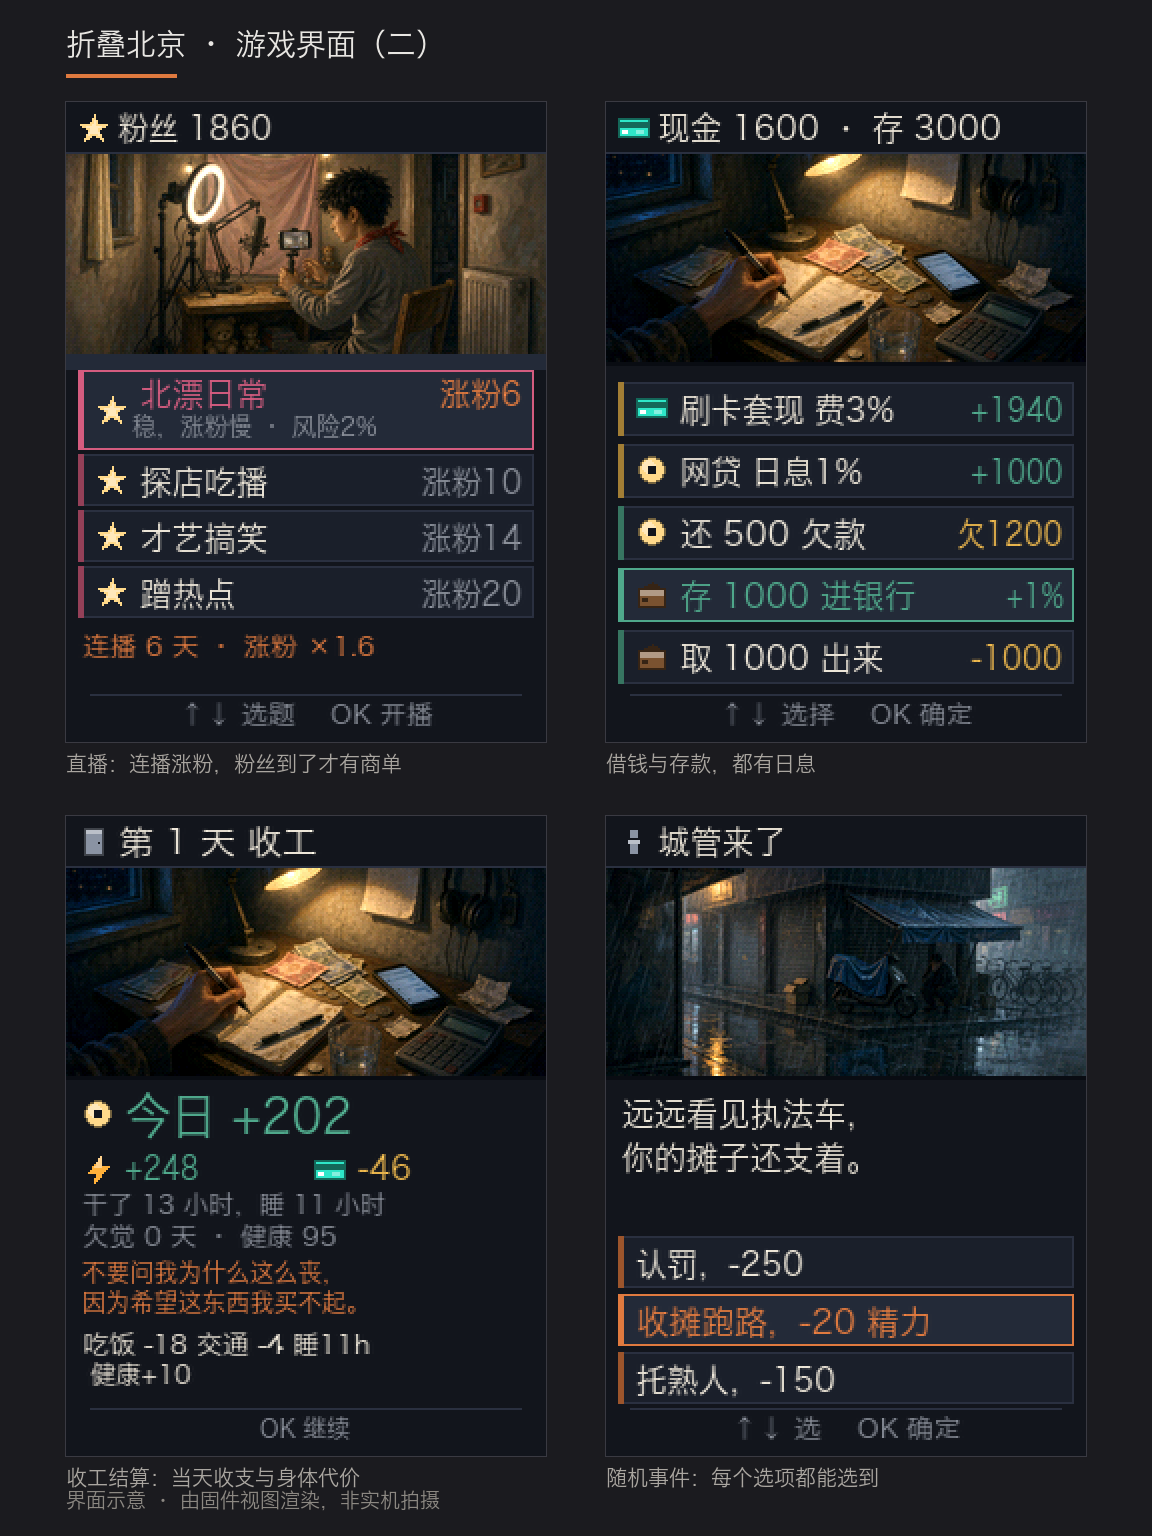
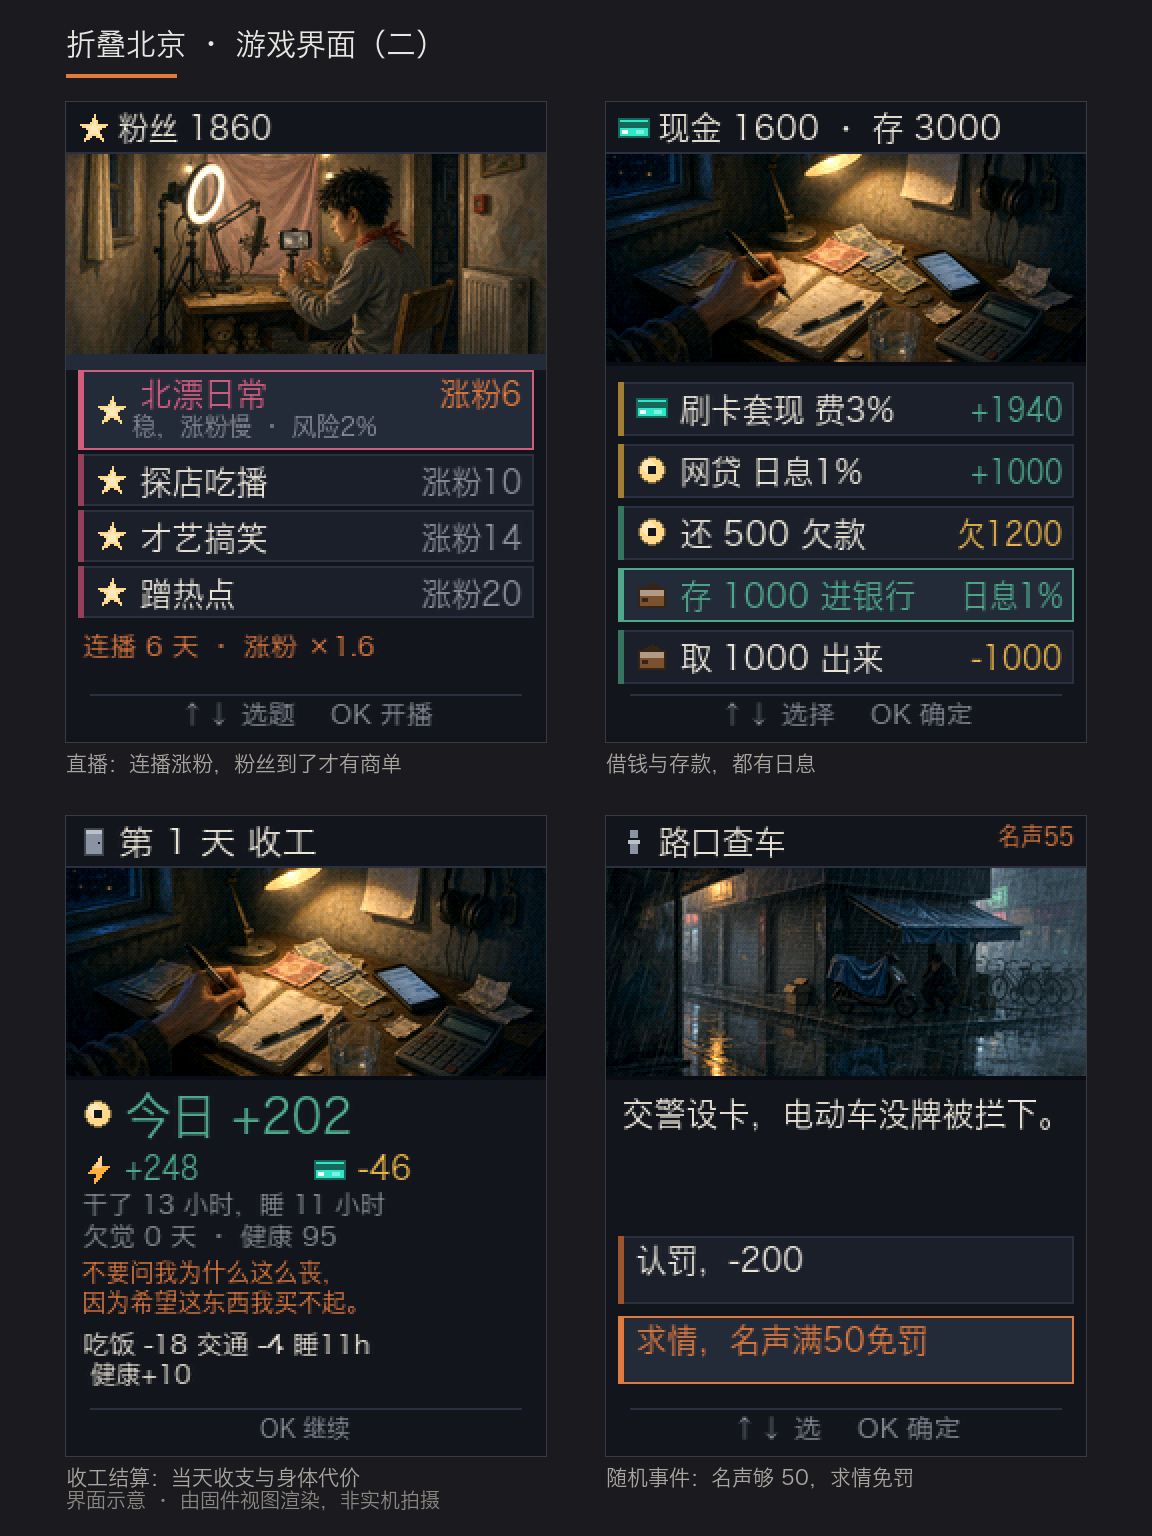
docs(发布): 2334 修订 5977 的文案与界面图
- 更新日志换成本次排查修复（客流倍率说清、名声真实判定与可见、隐藏代价补文案、孤行句号与日息对称）
- 简介与使用方法沿用（本次改动不改上手步骤）
- UI 拼图从当前固件视图重出：收入口行展示「客流×130%」、事件页展示「名声55 求情免罚」、财务页展示「日息1%」

diff --git a/tools/xm/make_ui_sheet.py b/tools/xm/make_ui_sheet.py
@@ -37,7 +37,7 @@ SHEETS = [
             ("02_home", "主面板：一天 24 小时的账"),
             ("03c_ride_due", "选行当：网约车按天租，界面直接标还剩几天"),
             ("07_gig", "日结零工：路边等活，当天结钱"),
-            ("05_market_ready", "摆摊选点：不同地方不同行情"),
+            ("04_market", "摆摊选点：客流倍率、进价卖价一目了然"),
         ],
     },
     {
@@ -47,7 +47,7 @@ SHEETS = [
             ("16_live", "直播：连播涨粉，粉丝到了才有商单"),
             ("15_finance", "借钱与存款，都有日息"),
             ("09_report", "收工结算：当天收支与身体代价"),
-            ("10b_event3", "随机事件：每个选项都能选到"),
+            ("10c_event_fame_ok", "随机事件：名声够 50，求情免罚"),
         ],
     },
 ]
